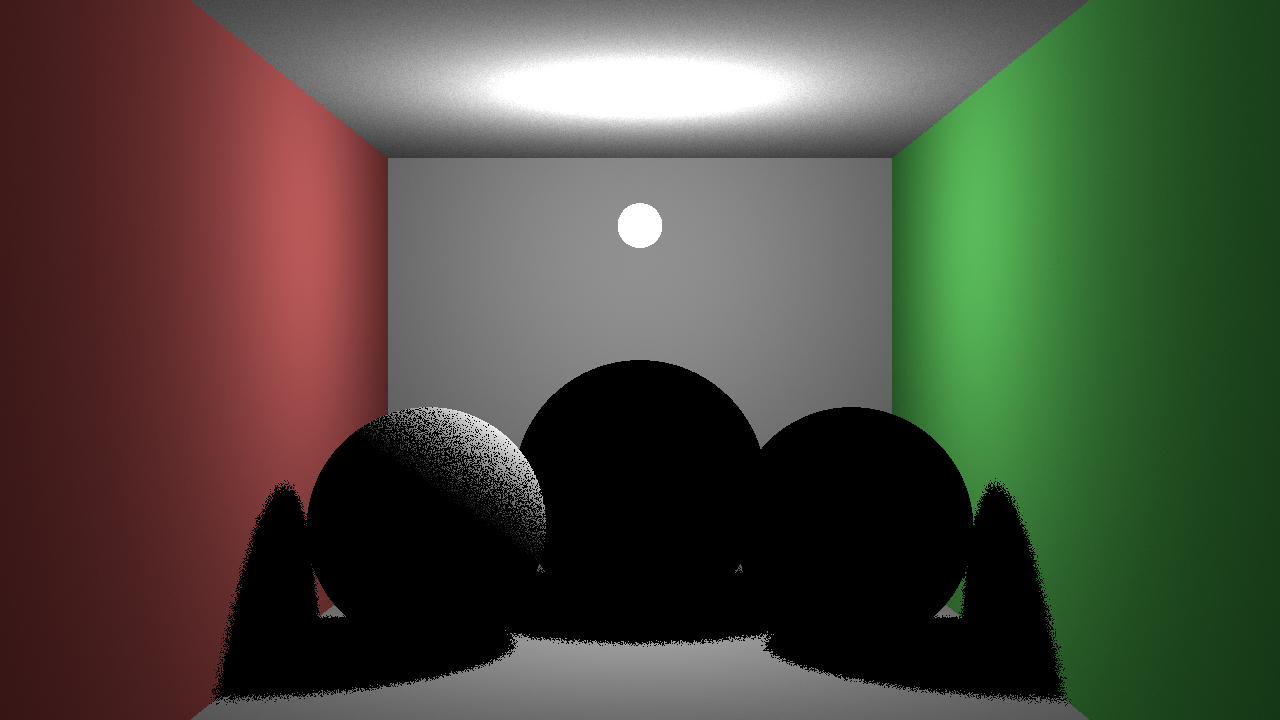
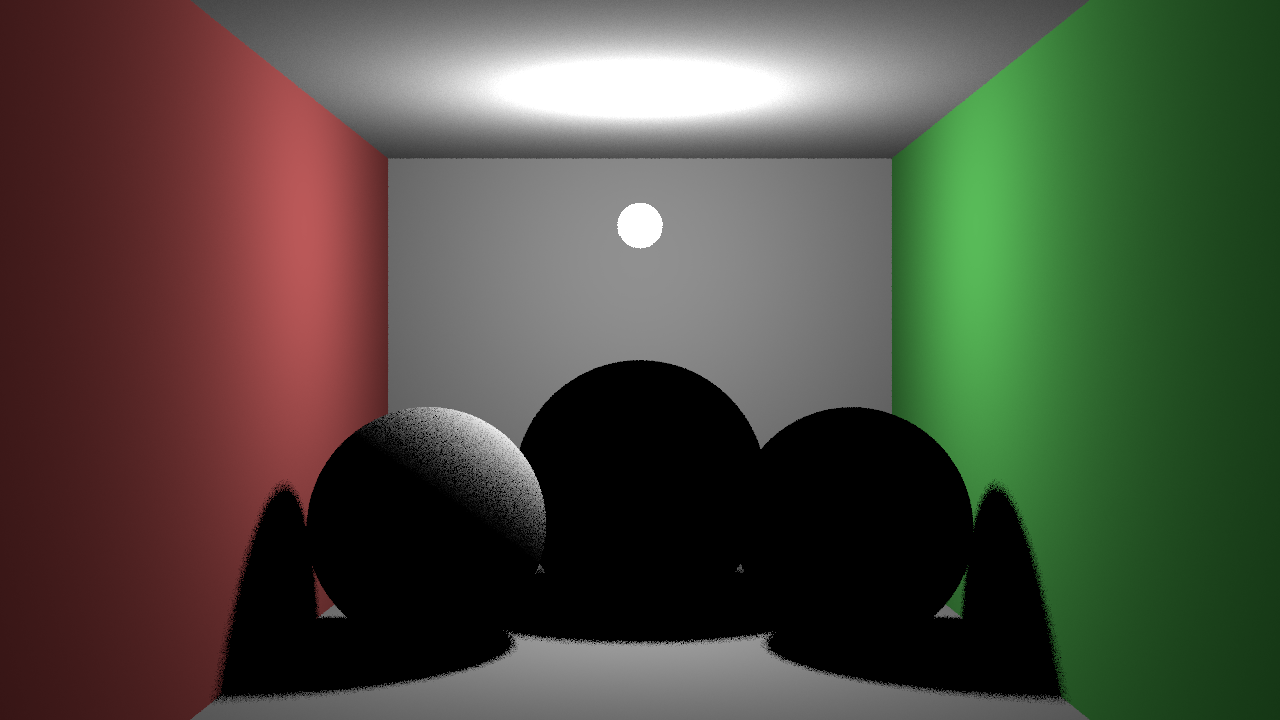
multiple samples per pixel

diff --git a/lib/numli/cg.hpp b/lib/numli/cg.hpp
@@ -106,7 +106,13 @@ template<bra::arithmetic T>
 constexpr rgb<T> operator*(rgb<T> const &C1, rgb<T> const &C2) 
   { return rgb<T>(C1.c*C2.c); }
 template<bra::arithmetic T> 
-constexpr rgb<T> operator/(rgb<T> const &C, float s) {return rgb<T>(C.c*(1/s));}
+constexpr rgb<T> operator/(rgb<T> const &C,float s) {return rgb<T>(C.c*(1/s));}
+template<bra::arithmetic T>
+constexpr rgb<T>& operator+=(rgb<T> &C1, rgb<T> const &C2) 
+  { C1.c[0]+=C2.c[0]; C1.c[1]+=C2.c[1]; C1.c[2]+=C2.c[2]; return C1; }
+template<bra::arithmetic T>
+constexpr rgb<T>& operator/=(rgb<T> &C1, float s)
+  { C1.c[0]/=s; C1.c[1]/=s; C1.c[2]/=s; return C1; }
 
 /// @name colour representations
 using rgb24  = rgb<uint8_t>;

diff --git a/src/renderer.cpp b/src/renderer.cpp
@@ -20,10 +20,15 @@ void Renderer::render()
   for (uint64_t i=0; i<h; i++) for (uint64_t j=0; j<w; j++, px_idx++)
   {
     nl::RNG rng(px_idx);
-    sample::info<ray> si;
-    nl::ℝ2 uv = {float(j+.5f),float(i+.5f)};
-    sample::camera(scene.cam, uv, si, rng);
-    linRGB radiance = tracePath(si.val, rng);
+    linRGB radiance = 0.f;
+    for (int k=0; k<4; k++)
+    { // multiple samples per pixel
+      sample::info<ray> si;
+      nl::ℝ2 uv = {float(j+rng.flt()), float(i+rng.flt())};
+      sample::camera(scene.cam, uv, si, rng);
+      radiance += tracePath(si.val, rng);
+    }
+    radiance /= 4.f;
     image.data[(h-i-1)*w+j] = sRGB2rgb24(linRGB2sRGB(radiance));
   }
 }
